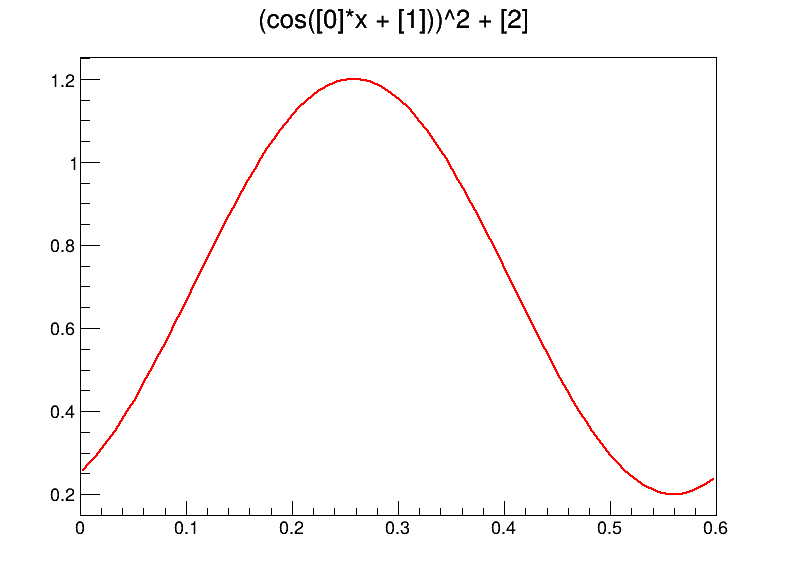
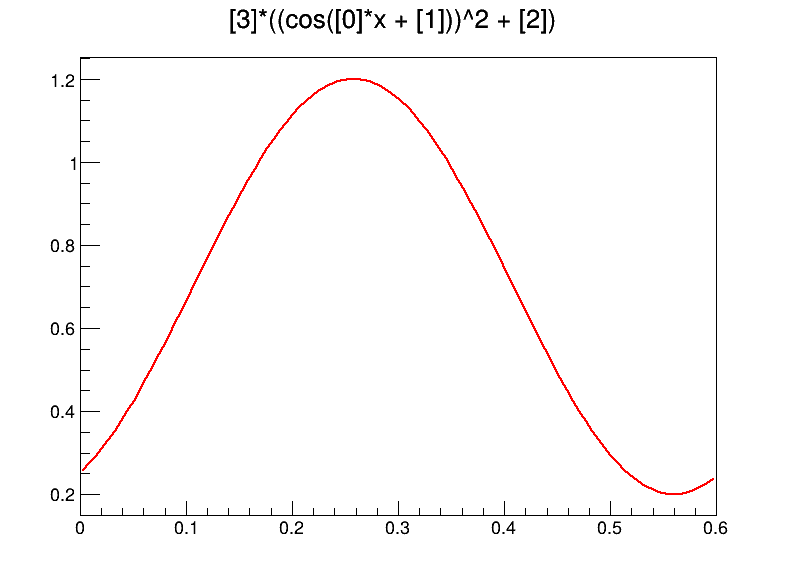
3.1 completed (in pochissimo tempo)

Changed region(s): [[0.2714, 0.0, 0.6935, 0.0594]]

diff --git a/lab1/root_macro.C b/lab1/root_macro.C
@@ -12,61 +12,96 @@ class macro {
   double phi_;
   double b_;
 
-public:
+ public:
   macro(double k = 5.2, double phi = 1.8, double b = 0.2)
-      : k_{k}, phi_{phi}, b_{b} {}
+      : k_{k}
+      , phi_{phi}
+      , b_{b} {
+  }
 
-  TF1 *cos_function() {
-    TF1 *cos = new TF1("Funzione coseno", "(cos([0]*x + [1]))^2 + [2]", 0., 0.6);
-    cos->SetParameters(k_, phi_, b_);
+  TF1* cos_function(double norm = 1.) {
+    // now includes an overall amplitude parameter [3] so the function can be renormalized
+    TF1* cos = new TF1("Funzione coseno", "[3]*((cos([0]*x + [1]))^2 + [2])", 0., 0.6);
+    cos->SetParameters(k_, phi_, b_, norm);
     return cos;
   }
 
-  TGraph *random_generation_graph(int n) {
+  TGraph* random_generation_graph(int n) {
     std::vector<double> vx, vy;
     for (float i{0.f}; i < 0.6f; i += 0.6 / n) {
       double upper_bound = cos_function()->Eval(i);
-      double y = gRandom->Uniform(0., 1.2);
+      double y           = gRandom->Uniform(0., 1.2);
       if (y <= upper_bound) {
         vx.push_back(i);
         vy.push_back(y);
       }
     }
-    TGraph *graph = new TGraph(vx.size(), &vx[0], &vy[0]);
+    TGraph* graph = new TGraph(vx.size(), &vx[0], &vy[0]);
     return graph;
   }
 
-  TH1F *random_generation_hist(int n, int b) {
+  TH1F* random_generation_hist(int n, int b) {
     std::vector<double> vx, vy;
     for (float i{0.f}; i < 0.6f; i += 0.6 / n) {
       double upper_bound = cos_function()->Eval(i);
-      double y = gRandom->Uniform(0., 1.2);
+      double y           = gRandom->Uniform(0., 1.2);
       if (y <= upper_bound) {
         vx.push_back(i);
       }
     }
-    TH1F *hist = new TH1F("hist", "Istogramma Occorrenze", b, 0, 0.6);
+    TH1F* hist = new TH1F("hist", "Istogramma Occorrenze", b, 0, 0.6);
     for (unsigned int i{0}; i < vx.size(); ++i) {
       hist->Fill(vx[i], 1);
     }
     return hist;
   }
 
-  void accordo(int n, int b) {
-    TH1F *hist1 = (TH1F *)(random_generation_hist(n, b)->Clone("hist1"));
+  void accordo(int n = 1000, int b = 50) { // normalizza HIST e TF1
+    TH1F* hist1 = (TH1F*)(random_generation_hist(n, b)->Clone("hist1"));
     hist1->Scale(1. / hist1->Integral()), "width";
+
+    TF1* cos1     = (TF1*)(cos_function()->Clone("cos1"));
+    double cosInt = cos1->Integral(0., 0.6);
+
+    TF1* cosScaled = (TF1*)(cos_function(1 / cosInt)->Clone("cosScaled"));
+    std::cout << "Hist integral: " << hist1->Integral() << "\n";
+    std::cout << "Cos integral: " << cosScaled->Integral(0., 0.6) << "\n";
+
+    std::vector<double> diff, sigma;
+    auto binWidth = 0.6 / b;
+    for (int i = 0; i < b; ++i) {
+      auto cosIntegral = cosScaled->Integral(i, i + binWidth);
+      diff.push_back(cosIntegral - hist1->GetBinContent(i));
+      sigma.push_back(cosIntegral);
+      // std::cout << "Differnenza bin " << i << " " << cosIntegral - hist1->GetBinContent(i) << "\n";
+    }
+
+    double chiSquared;
+
+    for (int i =0; i<b; ++i) {
+      chiSquared += std::pow(diff[i] / std::sqrt(sigma[i]), 2);
+    }
+    
+    std::cout << "Chi quadro: " << chiSquared << "\n";
+
+    TCanvas* c4 = new TCanvas("c4", "Hist scalato", 800, 600);
+    hist1->Draw("HIST");
+    c4->SaveAs("istrogramma_norm.png");
+    TCanvas* c5 = new TCanvas("c5", "Coseno scalato", 800, 600);
+    cosScaled->Draw();
+    c5->SaveAs("cos_scalato.png");
   }
 
   void draw() {
-    TCanvas *c1 = new TCanvas("c1", "Funzione coseno", 800, 600);
+    TCanvas* c1 = new TCanvas("c1", "Funzione coseno", 800, 600);
     cos_function()->Draw();
     c1->SaveAs("grafico.png");
 
-    TCanvas *c2 = new TCanvas("c2", "Estrazione punti", 800, 600);
+    TCanvas* c2 = new TCanvas("c2", "Estrazione punti", 800, 600);
     random_generation_graph(10000)->Draw();
     c2->SaveAs("punti.png");
 
-    TCanvas *c3 = new TCanvas("c3", "Istogramma", 800, 600);
+    TCanvas* c3 = new TCanvas("c3", "Istogramma", 800, 600);
     random_generation_hist(10000, 50)->Draw();
     // cos_function()->Draw();
     c3->SaveAs("istogramma.png");

diff --git a/lab1/root_main.cpp b/lab1/root_main.cpp
@@ -3,5 +3,6 @@
 int main(int arcg, char** argv) {
     macro test;
     test.draw(); // ciao
+    test.accordo(10000, 100);
     return 0;
 }
